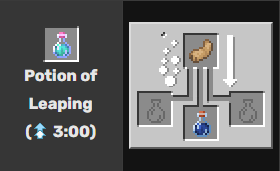
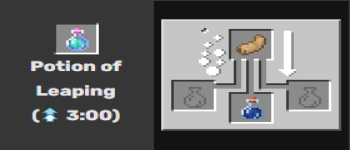
normalized potion images and replaced folder minor work on main page

diff --git a/angular front-end code/project2/src/app/components/potions/potions.component.html b/angular front-end code/project2/src/app/components/potions/potions.component.html
@@ -3,7 +3,7 @@
         <div class="column">
             <div class="card">
                 <h3>Awkward Potion Recipe</h3>
-                <img src="assets/Images/Potions/Awk.PNG" alt="AwkwardPotion">
+                <img src="assets/Images/Potions/Awk.png" alt="AwkwardPotion" class = "imageSizing">
                 <p> An Awkward Potion can be brewed using a water bottle and a single nether wart his potion is the main 
                     starting point to making almost every potion. This potion has no effects
                 </p>
@@ -12,7 +12,7 @@
         <div class="column">
             <div class="card">
                 <h3>Mundane Potion Recipe</h3>
-                <img src="assets/Images/Potions/Mundane.PNG" alt="MundanePotion">
+                <img src="assets/Images/Potions/Mundane.png" alt="MundanePotion" class = "imageSizing">
                 <p> A Mundane Potion can be brewed by using any potion material other than nether wart or glow stone dust. 
                     It results in a useless potion that gives no effects.
                 </p>
@@ -21,14 +21,14 @@
         <div class="column">
             <div class="card">
                 <h3>Thick Potion Recipe</h3>
-                <img src="assets/Images/Potions/Thick.PNG" alt="ThickPotion">
+                <img src="assets/Images/Potions/Thick.png" alt="ThickPotion" class = "imageSizing">
                 <p> A Thick Potion can be brewed by using glow stone dust and results in a useless potion that has no effects</p>
             </div>
         </div>
         <div class="column">
             <div class="card">
                 <h3>Potion of Healing Recipe</h3>
-                <img src="assets/Images/Potions/Healing.PNG" alt="HealingPotion">
+                <img src="assets/Images/Potions/Healing.png" alt="HealingPotion" class = "imageSizing">
                 <p> A Potion of Healing can be brewed with a single glistening melon and an Awkward Potion and creates a Potion of Instant Health which restores 4 hearts.
                     This effect can be doubled by adding a single glow stone dust producing a Potion of Instant Health II which restores 8 hearts.
                 </p>
@@ -37,7 +37,7 @@
         <div class="column">
             <div class="card">
                 <h3>Potion of Fire Resistance Recipe</h3>
-                <img src="assets/Images/Potions/Fire.PNG" alt="FireResPotion">
+                <img src="assets/Images/Potions/Fire.png" alt="FireResPotion" class = "imageSizing">
                 <p> A Potion of Fire Resistance can be brewed with a single Magma Crean and an Awkward Potion and lasts
                     for 3:00. The duration can be increased to 8:00 by adding a single piece of redstone dust.                    
                 </p>
@@ -46,7 +46,7 @@
         <div class="column">
             <div class="card">
                 <h3>Potion of Regeneration Recipe</h3>
-                <img src="assets/Images/Potions/Regen.PNG" alt="RegenPotion">
+                <img src="assets/Images/Potions/Regen.png" alt="RegenPotion" class = "imageSizing">
                 <p> A Potion of Regeneration can be brewed with a single Ghast Tear and an Awkward Potion and lasts for 45 seconds.
                     The duration can be increased to 1:30 with a single piece of redstone dust or it can be enhanced to a Potion of Regeneration II 0:22
                     with a single piece of glow stone dust.
@@ -56,7 +56,7 @@
         <div class="column">
             <div class="card">
                 <h3>Potion of Strength Recipe</h3>
-                <img src="assets/Images/Potions/Strength.PNG" alt="StrengthPotion">
+                <img src="assets/Images/Potions/Strength.png" alt="StrengthPotion" class = "imageSizing">
                 <p> A Potion of Strength can be brewed with a single Blaze Powder and an Awkward Potion and lasts 
                     for 3:00. the duraction can be increased to 8:00 by addidng restone or it can be enhanced to Strength Potion II which lasts
                     for 1:30.                    
@@ -66,7 +66,7 @@
         <div class="column">
             <div class="card">
                 <h3>Potion of Swiftness Recipe</h3>
-                <img src="assets/Images/Potions/Swift.PNG" alt="SwiftPotion">
+                <img src="assets/Images/Potions/Swift.png" alt="SwiftPotion" class = "imageSizing">
                 <p> A Swiftness Potion can be brewed with sugar and an Awkward Potion and lasts for 3:00. The duration can be increased to
                     8:00 by adding redstone dust or it can be enhanced to a Swiftness Potion II which lasts for 1:30.
                 </p>
@@ -75,7 +75,7 @@
         <div class="column">
             <div class="card">
                 <h3>Potion of Night Vision Recipe</h3>
-                <img src="assets/Images/Potions/Vision.PNG" alt="VisionPotion">
+                <img src="assets/Images/Potions/Vision.png" alt="VisionPotion" class = "imageSizing">
                 <p> A Night Vision Potion can be brewed with a Golden Carrot and an Awkward Potion and lasts 3:00. 
                     The duration of this potion can be increased to 8:00 with redstone dust.</p>
             </div>
@@ -83,7 +83,7 @@
         <div class="column">
             <div class="card">
                 <h3>Potion of Invisibility Recipe</h3>
-                <img src="assets/Images/Potions/Invis.PNG" alt="InvisPotion">
+                <img src="assets/Images/Potions/Invis.png" alt="InvisPotion" class = "imageSizing">
                 <p> A Invisibility Potion can be brewed with a fermented Spider Eye and a Potion of Night Vision and lasts for 3:00.
                     The duration can be increased to 8:00 with redstone dust.
                 </p>
@@ -92,7 +92,7 @@
         <div class="column">
             <div class="card">
                 <h3>Potion of Water Breathing Recipe</h3>
-                <img src="assets/Images/Potions/Water.PNG" alt="WaterPotion">
+                <img src="assets/Images/Potions/Water.png" alt="WaterPotion" class = "imageSizing">
                 <p> A Water Breathing Potion can be brewed with a Pufferfish and an Awkward Potion and lasts for 3:00.
                     The duration can be increased to 8:00 with redstone dust.
                 </p>
@@ -101,7 +101,7 @@
         <div class="column">
             <div class="card">
                 <h3>Potion of Leaping Recipe</h3>
-                <img src="assets/Images/Potions/Leaping.PNG" alt="LeapingPotion">
+                <img src="assets/Images/Potions/Leaping.png" alt="LeapingPotion" class = "imageSizing">
                 <p> A Leaping Potion can be brewed with a Rabbits Foot and an Awkward Potion and lasts for 3:00.
                     The duration can be increased to 8:00 with redstone dust or it can be enhanced to a Potion of Leaping II
                     with a duration of 1:30.
@@ -111,7 +111,7 @@
         <div class="column">
             <div class="card">
                 <h3>Potion of Slow Falling Recipe</h3>
-                <img src="assets/Images/Potions/Falling.PNG" alt="FallingPotion">
+                <img src="assets/Images/Potions/Falling.png" alt="FallingPotion" class = "imageSizing">
                 <p> A Potion of Slow Falling can be brewed with a Phantom Membrane and an Awkward Potionand lasts for 1:30.
                     The duration can be increased to 4:00 with redstone dust.
                 </p>
@@ -120,7 +120,7 @@
         <div class="column">
             <div class="card">
                 <h3>Potion of Poison Recipe</h3>
-                <img src="assets/Images/Potions/Poison.PNG" alt="PoisonPotion">
+                <img src="assets/Images/Potions/Poison.png" alt="PoisonPotion" class = "imageSizing">
                 <p> A Poison Potion can be brewed with a Spider Eye and an Awkward Potion and lasts for 0:45.
                     The duration can be increased to 1:30 with redstone or it canbe enhanced to a Potion of Poison II
                     which lasts for 0:21.
@@ -130,7 +130,7 @@
         <div class="column">
             <div class="card">
                 <h3>Potion of Weakness Recipe</h3>
-                <img src="assets/Images/Potions/Weakness.PNG" alt="WeaknessPotion">
+                <img src="assets/Images/Potions/Weakness.png" alt="WeaknessPotion" class = "imageSizing">
                 <p> A Weakness Potion can be brewed with a fermented Spider Eye and a Water Bottle and lasts for 1:30.
                     The duration can be increased to 4:00 with redstone dust.
                 </p>
@@ -139,7 +139,7 @@
         <div class="column">
             <div class="card">
                 <h3>Potion of Harming Recipe</h3>
-                <img src="assets/Images/Potions/Harming.PNG" alt="HarmingPotion">
+                <img src="assets/Images/Potions/Harming.png" alt="HarmingPotion" class = "imageSizing">
                 <p> A Potion of Harming can be brewed with a fermented Spider Eye and a Potion of Poison or Strength.
                     The potion can be enhanced to a Potion of Harming II with glowstone dust.
                 </p>
@@ -148,7 +148,7 @@
         <div class="column">
             <div class="card">
                 <h3>Potion of Slowness Recipe</h3>
-                <img src="assets/Images/Potions/Slow.PNG" alt="SlowPotion">
+                <img src="assets/Images/Potions/Slow.png" alt="SlowPotion" class = "imageSizing">
                 <p> A Slowness Potion can be brewed with a fermented Spider Eye and a Potion of Swiftness or Leaping 
                     and lasts 1:30. The duration can be increased to 4:00 with redstone dust or can be enhanced to a 
                     Potion of Slowness II which lasts for 0:20.
@@ -158,7 +158,7 @@
         <div class="column">
             <div class="card">
                 <h3>Potion of the Turtle Master Recipe</h3>
-                <img src="assets/Images/Potions/Turtle.PNG" alt="TurtlePotion">
+                <img src="assets/Images/Potions/Turtle.png" alt="TurtlePotion" class = "imageSizing">
                 <p> A Potion of the Turtle Master can be brewed with a Turtle Shell and an Awkward Potion and lasts for 0:20.
                     A Turtle Master Potion gives Slowness and Resistance. The duration can be increased to 0:40 with redstone dust
                     or it can be enhanced to a Potion of the Turtle Master II and lasts for 0:20.

diff --git a/angular front-end code/project2/src/app/components/main/main.component.html b/angular front-end code/project2/src/app/components/main/main.component.html
@@ -1,10 +1,13 @@
 <div class="container p-5">
-    <h3 id="header" class="container border border-2 border-dark text-center p-5 shadow-lg rounded-3 bg-success"><u>MINECRAFT GAMER GUIDE</u></h3>
+    <h3 id="header" class="container border border-2 border-dark text-center p-5 shadow-lg rounded-3 bg-success">
+        <u>MINECRAFT GAMER GUIDE</u></h3>
     <h5 class="border border-2 border-dark p-5 shadow-lg rounded-3 bg-success">
         <u>Description:</u>
         <br>
         <br>
-        <p>This Minecraft gamer guide is any Minecraft gamer’s ultimate tool!! We provide tips and tricks on enchantments, weapons and armor stats, Mob info on enemies and animals to gain damage info, a picture gallery of live in game experiences, and a forum to post any in-game inquiries to receive any tips.</p>
+        <p>This Minecraft gamer guide is any Minecraft gamer’s ultimate tool!! We provide tips and tricks on
+            enchantments, weapons and armor stats, Mob info on enemies and animals to gain damage info, a picture
+            gallery of live in game experiences, and a forum to post any in-game inquiries to receive any tips.</p>
     </h5>
     <!-- <br> -->
     <div class="row">
@@ -20,9 +23,10 @@
                         <div class="card bg-success shadow-md">
                             <img src="" class="card-img-top" alt="">
                             <div class="card-body">
-                              <h5 class="card-title">Potions</h5>
-                              <p class="card-text">Tips and tricks on how to acquire and use enchantments such when to execute the best combos and how to find the most effective enchantments.</p>
-                              <button (click)="checkUser('potions')" class="btn btn-primary">Potions</button>
+                                <h5 class="card-title">Potions</h5>
+                                <p class="card-text">Tips and tricks on how to acquire and use enchantments such when to
+                                    execute the best combos and how to find the most effective enchantments.</p>
+                                <button (click)="checkUser('potions')" class="btn btn-primary">Potions</button>
                             </div>
                         </div>
                         <!-- <input type="submit" class="btn btn-block bg-primary" value="Enhancements"/>  -->
@@ -31,9 +35,10 @@
                         <div class="card bg-success shadow-md">
                             <img src="" class="card-img-top" alt="">
                             <div class="card-body">
-                              <h5 class="card-title">Crafting Recipes</h5>
-                              <p class="card-text">A list of different types of crafting recipes ranging from building blocks, food stuffs, and redstone.</p>
-                              <button (click)="checkUser('recipes')" class="btn btn-primary">Crafting Recipes</button>
+                                <h5 class="card-title">Crafting Recipes</h5>
+                                <p class="card-text">A list of different types of crafting recipes ranging from building
+                                    blocks, food stuffs, and redstone.</p>
+                                <button (click)="checkUser('recipes')" class="btn btn-primary">Crafting Recipes</button>
                             </div>
                         </div>
                         <!-- <input type="submit" class="btn btn-block bg-primary" value="Crafting Recipes"/>  -->
@@ -45,9 +50,10 @@
                         <div class="card bg-success shadow-md">
                             <img src="" class="card-img-top" alt="">
                             <div class="card-body">
-                              <h5 class="card-title">Mob Info</h5>
-                              <p class="card-text">The glossary of many different enemies and animals you may encounter in the game along with their damage and health info.</p>
-                              <button (click)="checkUser('mobs')" class="btn btn-primary">Mob Info</button>
+                                <h5 class="card-title">Mob Info</h5>
+                                <p class="card-text">The glossary of many different enemies and animals you may
+                                    encounter in the game along with their damage and health info.</p>
+                                <button (click)="checkUser('mobs')" class="btn btn-primary">Mob Info</button>
                             </div>
                         </div>
                         <!-- <input type="submit" class="btn btn-block bg-primary" value="Mob Info"/>                   -->
@@ -56,9 +62,11 @@
                         <div class="card bg-success shadow-md">
                             <img src="" class="card-img-top" alt="">
                             <div class="card-body">
-                              <h5 class="card-title">Weapons/Armor + Stats</h5>
-                              <p class="card-text">A cornucopia of weapons and armor info to help a any player survive Minecraft.</p>
-                              <button (click)="checkUser('weapons_armor')" class="btn btn-primary">Weapons/Armor + Stats</button>
+                                <h5 class="card-title">Weapons/Armor + Stats</h5>
+                                <p class="card-text">A cornucopia of weapons and armor info to help a any player survive
+                                    Minecraft.</p>
+                                <button (click)="checkUser('weapons_armor')" class="btn btn-primary">Weapons/Armor +
+                                    Stats</button>
                             </div>
                         </div>
                         <!-- <input type="submit" class="btn btn-block bg-primary" value="Weapons/Armor + Stats"/>                  -->
@@ -70,9 +78,9 @@
                         <div class="card bg-success shadow-md">
                             <img src="" class="card-img-top" alt="">
                             <div class="card-body">
-                              <h5 class="card-title">Gallery</h5>
-                              <p class="card-text">Live in-game pictures of certain events and quests.</p>
-                              <button (click)="checkUser('gallery')" class="btn btn-primary">Gallery</button>
+                                <h5 class="card-title">Gallery</h5>
+                                <p class="card-text">Live in-game pictures of certain events and quests.</p>
+                                <button (click)="checkUser('gallery')" class="btn btn-primary">Gallery</button>
                             </div>
                         </div>
                         <!-- <input type="submit" class="btn btn-block bg-primary" value="Gallery"/> -->
@@ -81,9 +89,10 @@
                         <div class="card bg-success shadow-md">
                             <img src="" class="card-img-top" alt="">
                             <div class="card-body">
-                              <h5 class="card-title">Q&A</h5>
-                              <p class="card-text">A place you can ask questions about the game and gain new knowledge on how achieve personal goals within the game.</p>
-                              <button (click)="checkUser('forum')" class="btn btn-primary">Q&A</button>
+                                <h5 class="card-title">Q&A</h5>
+                                <p class="card-text">A place you can ask questions about the game and gain new knowledge
+                                    on how achieve personal goals within the game.</p>
+                                <button (click)="checkUser('forum')" class="btn btn-primary">Q&A</button>
                             </div>
                         </div>
                         <!-- <input type="submit" class="btn btn-block bg-primary" value="Q&A"/> -->

diff --git a/angular front-end code/project2/src/app/components/potions/potions.component.css b/angular front-end code/project2/src/app/components/potions/potions.component.css
@@ -2,9 +2,14 @@ body {
     margin: 30px;
     padding: 0;
     font-family: sans-serif;
-    /* background-image: url("https://static.wikia.nocookie.net/minecraft_gamepedia/images/b/b5/Site-background-light/revision/latest?cb=20210706133015"); */
+    /*background-image: url("https://static.wikia.nocookie.net/minecraft_gamepedia/images/b/b5/Site-background-light/revision/latest?cb=20210706133015"); */
     background-repeat: repeat
     /*background: linear-gradient(to right, #b92b27, #1565c0)*/
+}
+.imageSizing{
+    padding: 20px,16px,20px,20px;
+    width: 325px;
+    height: 170px;
 }
 .dividerView{
     width:5px;
@@ -15,9 +20,9 @@ body {
     box-shadow: 0 4px 8px 0 rgba(0, 0, 0, 0.2); 
     padding: 16px;
     text-align: center;
-    /* background-image: url(https://static.wikia.nocookie.net/minecraft_gamepedia/images/d/df/BlockCSS.png/revision/latest?cb=20210818130342&block-sprite&format=original); */
-    width: 350px;
-    height: 275px;
+    background-image: url("src\assets\Images\Cobble.png");
+    width: 355px;
+    height: 350px;
     /*background: linear-gradient(#765338,#64a43a);*/
 }
 

diff --git a/angular front-end code/project2/src/app/components/forum/forum.component.css b/angular front-end code/project2/src/app/components/forum/forum.component.css
@@ -2,7 +2,7 @@ body {
     margin: 30px;
     padding: 0;
     font-family: sans-serif;
-    background-image: url("src\app\components\forum\images\171177.jpg");
+    /*background-image: url("src\app\components\forum\images\171177.jpg");*/
     background-repeat: repeat
     /*background: linear-gradient(to right, #b92b27, #1565c0)*/
 }
@@ -15,7 +15,7 @@ body {
     box-shadow: 0 4px 8px 0 rgba(0, 0, 0, 0.2); 
     padding: 16px;
     text-align: center;
-    background-image: url("src\app\components\forum\images\533313.jpg");
+    /*background-image: url("src\app\components\forum\images\533313.jpg");*/
     height: 375px;
         grid-row: 2/3;
     grid-column: 2/3;

diff --git a/angular front-end code/project2/src/app/components/main/main.component.css b/angular front-end code/project2/src/app/components/main/main.component.css
@@ -9,3 +9,15 @@
     background-repeat: no-repeat;
     background-size: cover;
 } */
+.padding{
+    padding: 30px;
+  }
+.card {
+    box-shadow: 0 4px 8px 0 rgba(0, 0, 0, 0.2); 
+    padding: 16px;
+    text-align: center;
+    background-image: url("src\assets\Images\StoneBricks.jpg");
+    width: 400px;
+    height: 250px;
+    /*background: linear-gradient(#765338,#64a43a);*/
+}

diff --git a/angular front-end code/project2/src/app/components/armor/armor.component.css b/angular front-end code/project2/src/app/components/armor/armor.component.css
@@ -19,7 +19,7 @@ color:black;
   box-shadow: 0 4px 8px 0 rgba(0, 0, 0, 0.2); 
   padding: 10px 5px;
   text-align: center;
-  background-image: url("assets/Images/Emerald.png");
+  background-image: url("src\assets\Images\Emerald.png");
   object-fit: fill;
   width: 800px;
   height: 390px;
